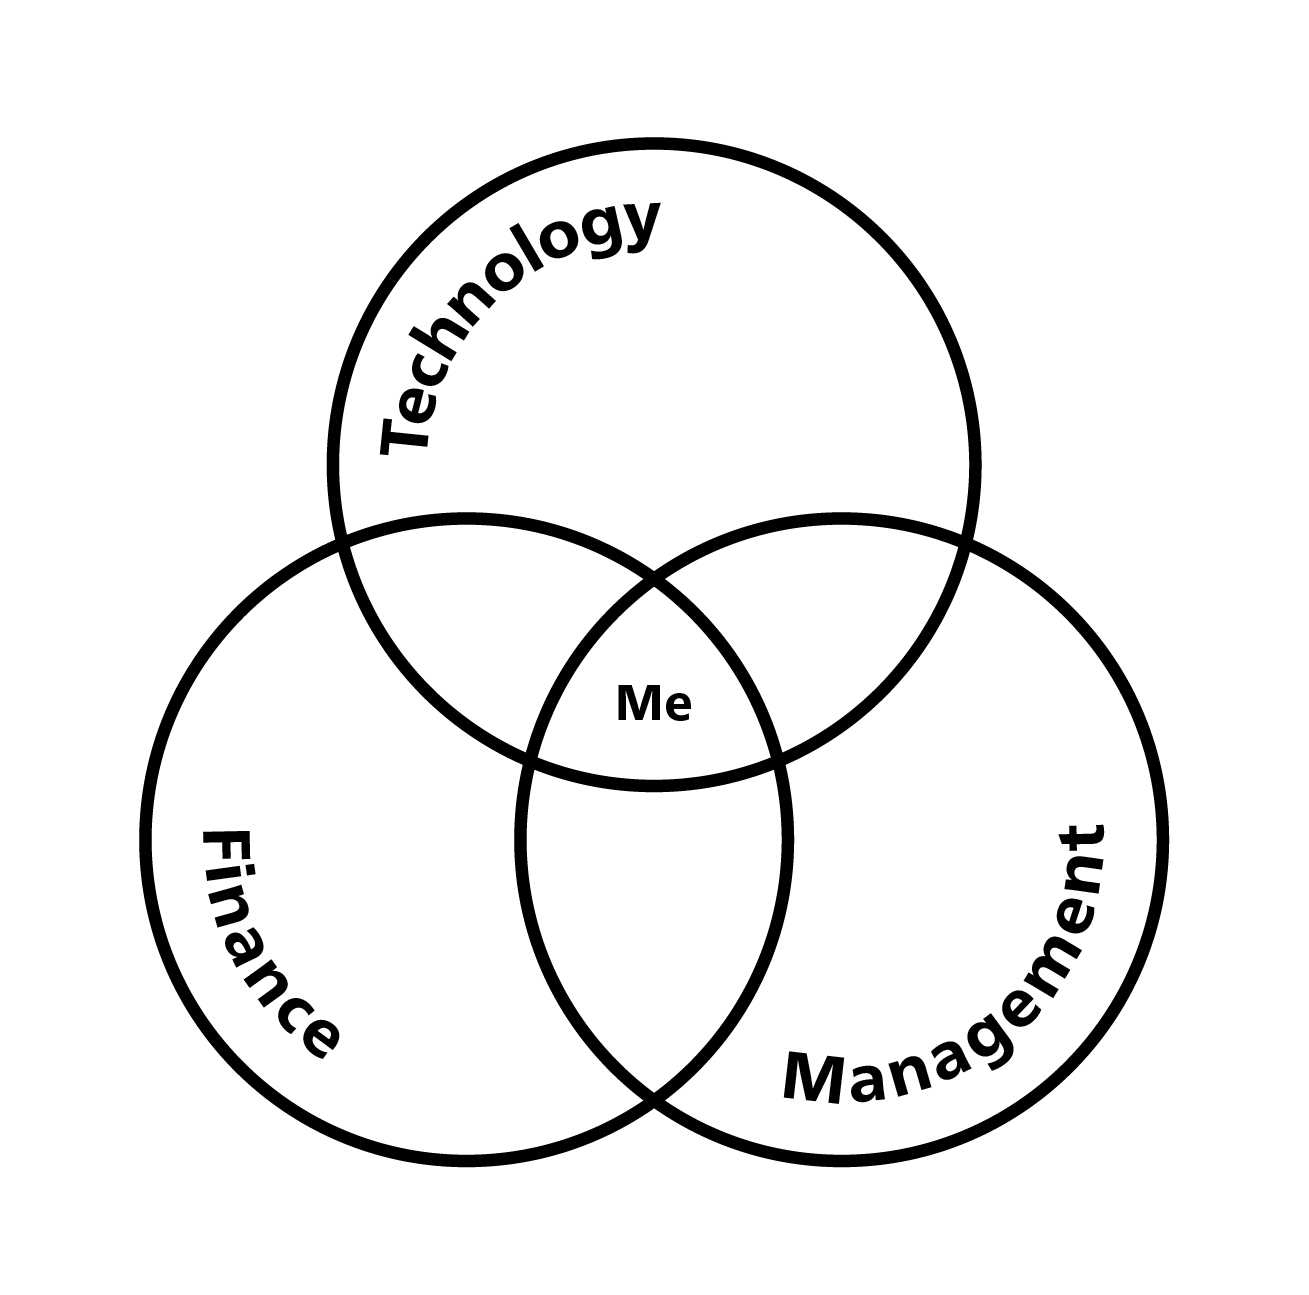
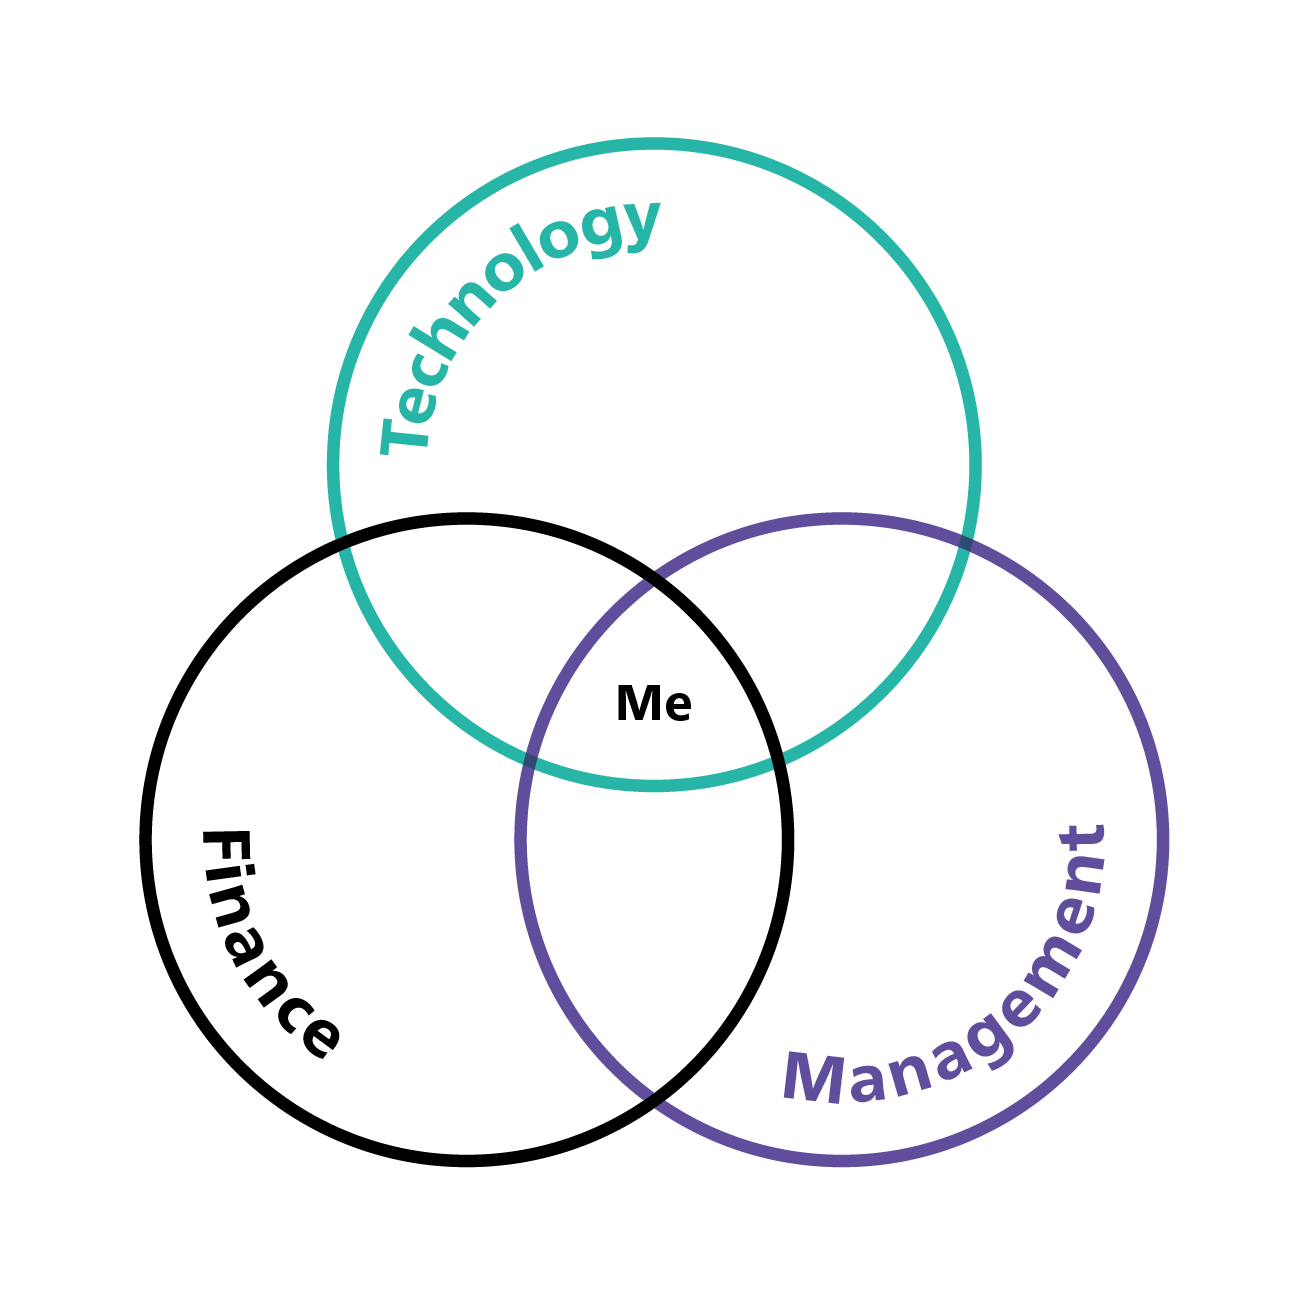
Temporarily remove Power BI Dashboard project card

diff --git a/index.html b/index.html
@@ -173,18 +173,6 @@
           </div>
         </div>
 
-        <div class="project-card" data-project="powerbi" data-category="dashboard">
-          <div class="project-card-img" style="background: linear-gradient(135deg, #065f46, #059669);">
-            <img src="https://cdn.jsdelivr.net/gh/devicons/devicon@latest/icons/powerbi/powerbi-original.svg" alt="Power BI" style="height:64px;object-fit:contain" onerror="this.style.display='none';this.nextElementSibling.style.display='block'">
-            <span style="display:none">Power BI Dashboard</span>
-          </div>
-          <div class="project-card-body">
-            <h3>Power BI Dashboard</h3>
-            <p>Interactive dashboard for real-time data exploration. Add your Power BI embed link.</p>
-            <span class="project-card-link">View Project &rarr;</span>
-          </div>
-        </div>
-
         <div class="project-card project-card--placeholder" data-project="coming" data-category="all">
           <div class="project-card-img" style="background: linear-gradient(135deg, #64748b, #94a3b8);">
             <img src="" alt="" style="display:none;height:64px;object-fit:contain" onerror="this.style.display='none';this.nextElementSibling.style.display='block'">